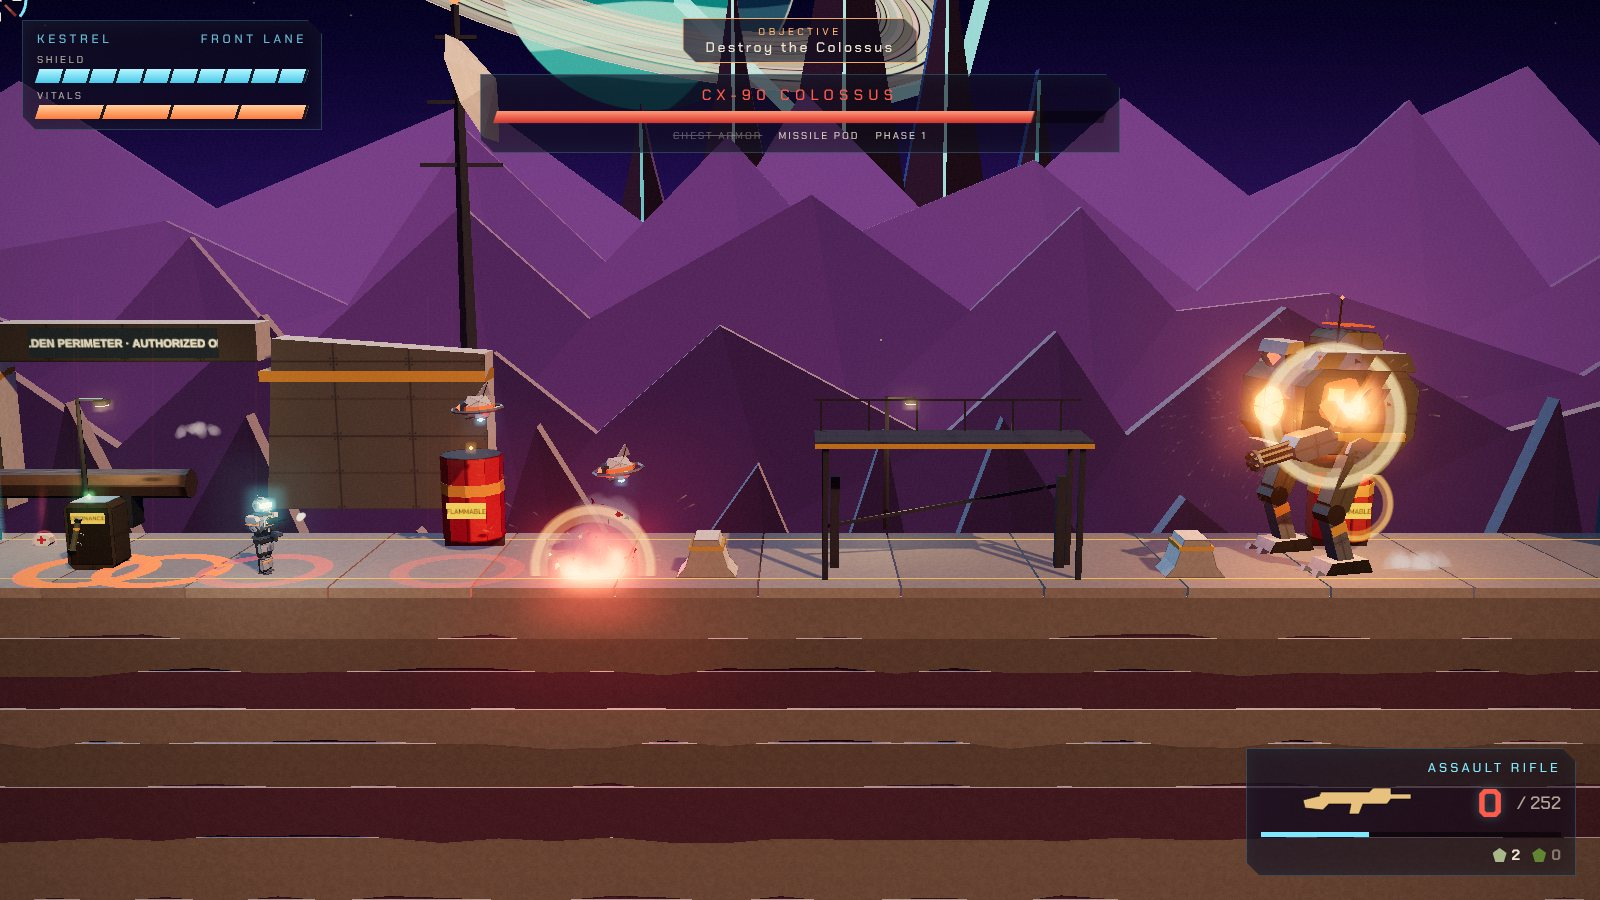
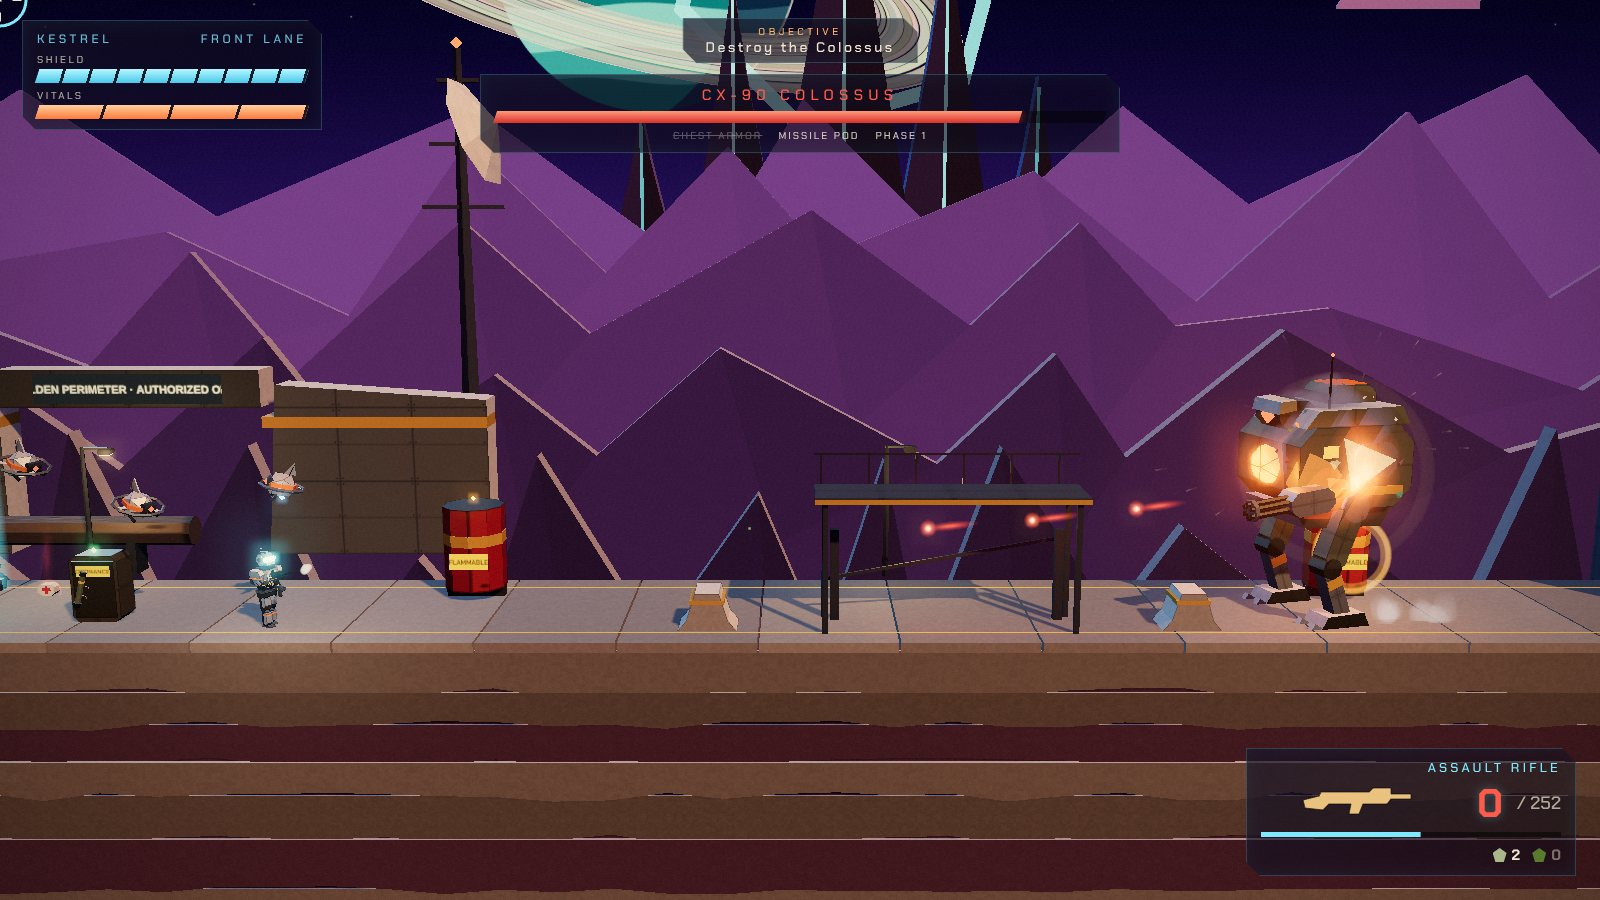
Place Prism Lance, add adaptive resolution scaling, refresh screenshots
Claude-Session: https://claude.ai/code/session_01N35wF7QmjYws7f95tmgjk4

diff --git a/src/render/renderer.ts b/src/render/renderer.ts
@@ -92,6 +92,13 @@ export class Renderer {
   private width = 1;
   private height = 1;
   private settings: Settings;
+  /** Automatic resolution multiplier (lowered when frames run long). */
+  dynamicScale = 1;
+  /** Disable to pin the resolution (benchmarks, capture). */
+  adaptive = true;
+  private frameAvg = 1 / 60;
+  private slowT = 0;
+  private fastT = 0;
   /** World-space anchor that the shadow camera follows. */
   shadowFocus = new THREE.Vector3();
 
@@ -191,8 +198,8 @@ export class Renderer {
     const h = this.container.clientHeight || window.innerHeight;
     this.width = w;
     this.height = h;
-    const cap = this.settings.quality === 'high' ? 2 : this.settings.quality === 'medium' ? 1.5 : 1;
-    const pr = Math.min(window.devicePixelRatio || 1, cap) * this.settings.resolutionScale;
+    const cap = this.settings.quality === 'high' ? 1.75 : this.settings.quality === 'medium' ? 1.25 : 1;
+    const pr = Math.min(window.devicePixelRatio || 1, cap) * this.settings.resolutionScale * this.dynamicScale;
     this.renderer.setPixelRatio(pr);
     this.renderer.setSize(w, h);
     this.composer.setPixelRatio(pr);
@@ -219,7 +226,31 @@ export class Renderer {
     this.rim.position.set(fx - 22, fy + 16, -34);
   }
 
+  /** Adapt resolution to keep frame pacing smooth on slower GPUs. */
+  private adaptResolution(dt: number): void {
+    if (!this.adaptive || dt <= 0 || dt > 0.25) return;
+    this.frameAvg += (dt - this.frameAvg) * 0.05;
+    if (this.frameAvg > 1 / 45) {
+      this.slowT += dt;
+      this.fastT = 0;
+      if (this.slowT > 2.5 && this.dynamicScale > 0.6) {
+        this.dynamicScale = Math.max(0.6, this.dynamicScale - 0.1);
+        this.slowT = 0;
+        this.resize();
+      }
+    } else if (this.frameAvg < 1 / 58) {
+      this.fastT += dt;
+      this.slowT = 0;
+      if (this.fastT > 6 && this.dynamicScale < 1) {
+        this.dynamicScale = Math.min(1, this.dynamicScale + 0.1);
+        this.fastT = 0;
+        this.resize();
+      }
+    }
+  }
+
   render(dt: number, time: number): void {
+    this.adaptResolution(dt);
     this.updateSun();
     this.lightPool.focusX = this.shadowFocus.x;
     this.lightPool.focusY = this.shadowFocus.y;

diff --git a/src/data/levels/mission01.ts b/src/data/levels/mission01.ts
@@ -203,6 +203,7 @@ export const MISSION_01: LevelData = {
     { type: 'cache', x: 255.6, y: 6.0, lane: 0, id: 'cache_tower', weapon: 'sniper', rp: 60 },
     // Yard & arena
     { type: 'intel', x: 279, y: 1.2, lane: 1, id: 'intel_override' },
+    { type: 'weapon', x: 274, y: 1.2, lane: 1, weapon: 'prism', id: 'prism_yard' },
     { type: 'ammo', x: 287, y: 1.2, lane: 0, id: 'ammo_yard' },
     { type: 'ordnance', x: 302.5, y: 0.4, lane: 0, id: 'ordnance' },
     { type: 'fuelTank', x: 313, y: 0.4, lane: 1 },
